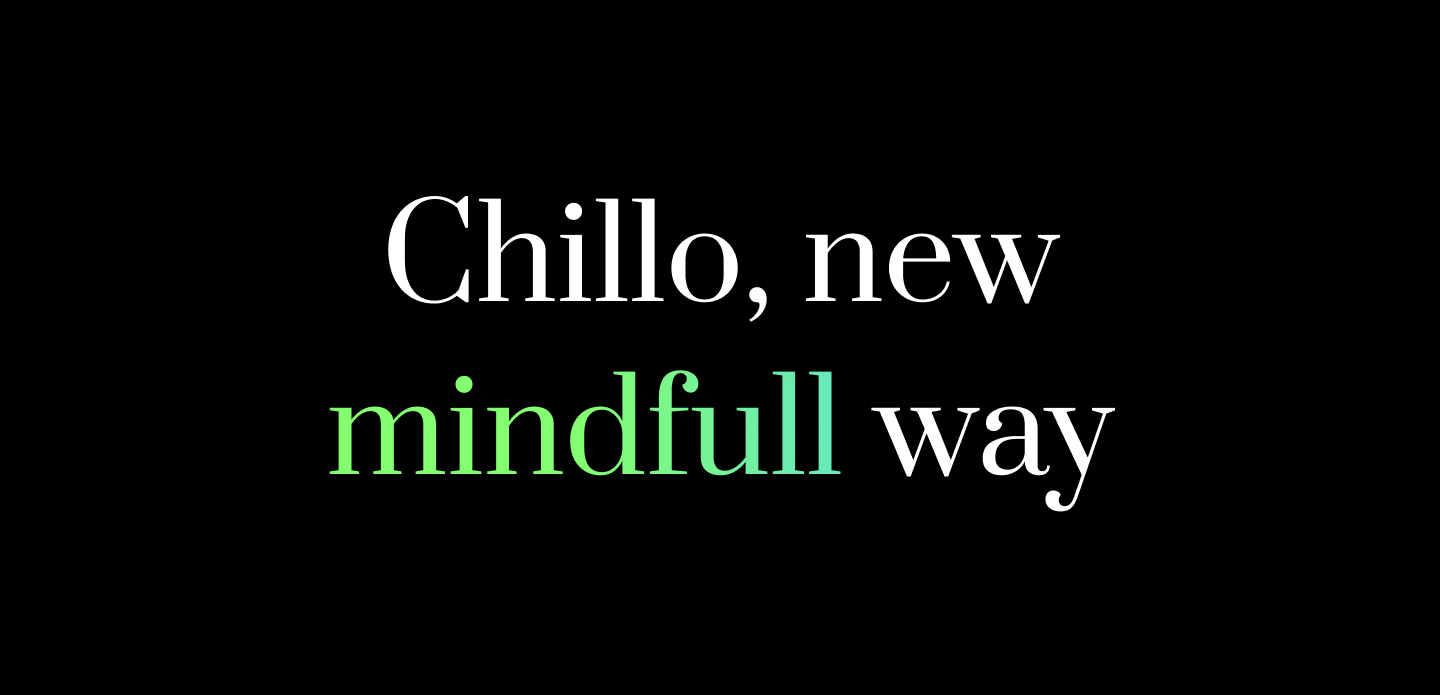
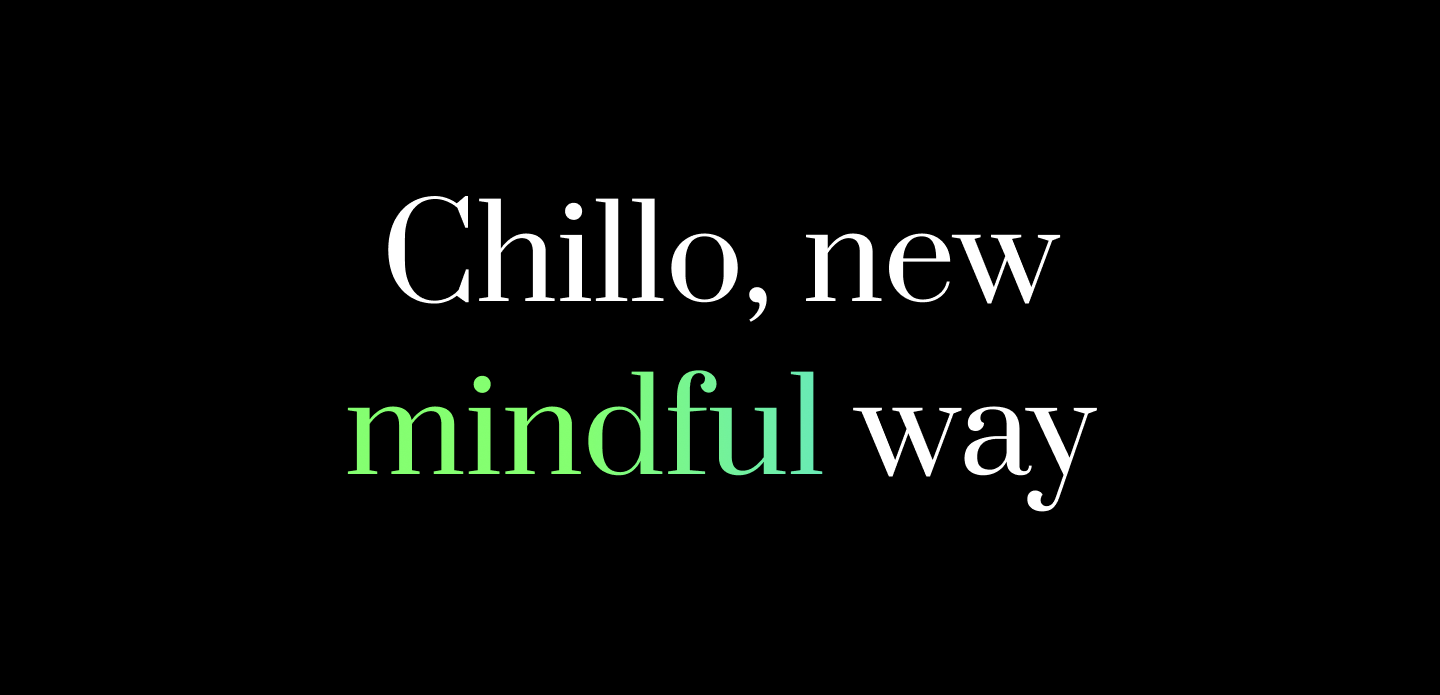
Add img and readme

Changed region(s): [[0.2188, 0.5137, 0.7812, 0.7554]]

diff --git a/README.md b/README.md
@@ -1,2 +1,5 @@
-# Chilloo, new mindfull way
+# Chilloo, new mindful way
 ![Chilloo logo](media/readme.png)
+
+### Be chilled, code is in your hands
+Digital freedom = mindful freedom. This should be a rule. The only thing that will not appear in Chilloo is those strange bytes of unnecessary information.
